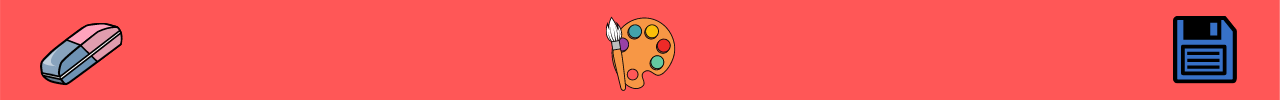
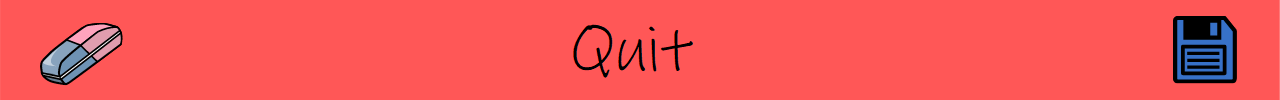
.add

Changed region(s): [[0.4375, 0.18, 0.5625, 0.9]]

diff --git a/camera_painting.py b/camera_painting.py
@@ -9,7 +9,6 @@ cap.set(10,100)
 imageFolder="images"
 overlay=[]
 overlayImage=cv2.imread('images/header.png')
-#overlayImage=cv2.resize(overlayImage,(1280,100))
 overlay.append(overlayImage)
 
 colors=[[36,93,92,72,255,255],[92,127,89,159,255,255],[135,172,121,179,255,255],[3,99,247,28,255,255]]       #yesil, mavi, mor, turuncu
@@ -36,6 +35,7 @@ def findcolor(img, colors, colorValues):                                   #kale
         
 def getContours(img):                                                                          #kalemin etrafını bulma
     contours, hierarchy=cv2.findContours(img, cv2.RETR_EXTERNAL,cv2.CHAIN_APPROX_NONE)
+    global statusControl
     x,y,w,h=0,0,0,0
     for cnt in contours:
         area=cv2.contourArea(cnt)
@@ -43,32 +43,44 @@ def getContours(img):                                                           
             prm=cv2.arcLength(cnt,True)
             approx=cv2.approxPolyDP(cnt, 0.2*prm, True)
             x, y, w, h = cv2.boundingRect(approx)
+            
+    if y<100:
+        if 0<x<150:
+            points.clear()
+            statusControl="2"
+            
+        elif 570<x<700:
+            statusControl="4"
+            
+        elif 1150<x<1280:
+            statusControl="5"
+        
     return x+w//2,y
     
 def drawPoints(points, colorValues):                                                           #kameraya resim cizme
     for point in points:
         cv2.circle(imgResult, (point[0], point[1]), 16, colorValues[point[2]], cv2.FILLED)
 
-status = "3"
+statusControl = "3"
 while True:
     success, img=cap.read()
     img = cv2.flip(img,1)
     imgResult=img.copy()
     
     if cv2.waitKey(1) & 0xFF==ord('w'):
-        status="1"
+        statusControl="1"
         
     elif cv2.waitKey(1) & 0xFF==ord('e'):
-        status="2"
+        statusControl="2"
         points.clear()
         
     elif cv2.waitKey(1) & 0xFF==ord('s'):
-        status="3"
+        statusControl="3"
         
-    elif cv2.waitKey(1) & 0xFF==ord('q'):
+    elif cv2.waitKey(1) & 0xFF==ord('q') or statusControl=="4":
         break
         
-    if status =="1":
+    if statusControl =="1":
         newPoints= findcolor(img, colors, colorValues)
         if len(newPoints)!=0:
             for nP in newPoints:
@@ -77,11 +89,13 @@ while True:
         if len(points)!=0:
             drawPoints(points, colorValues)
             
-    elif status=="3":
+    elif statusControl=="3":
         drawPoints(points, colorValues)
         
-    if cv2.waitKey(1) & 0xFF==ord('d'):
+    if cv2.waitKey(1) & 0xFF==ord('d') or statusControl=="5":
         cv2.imwrite('paint.jpg', imgResult)
+        statusControl="3"
+        continue
         
     cv2.putText(imgResult,'Burak Cimtay 180208026',(830,125), cv2.FONT_HERSHEY_COMPLEX, 1,(0,0,255),1)
     imgResult[0:100, 0:1600]=overlay[0]
